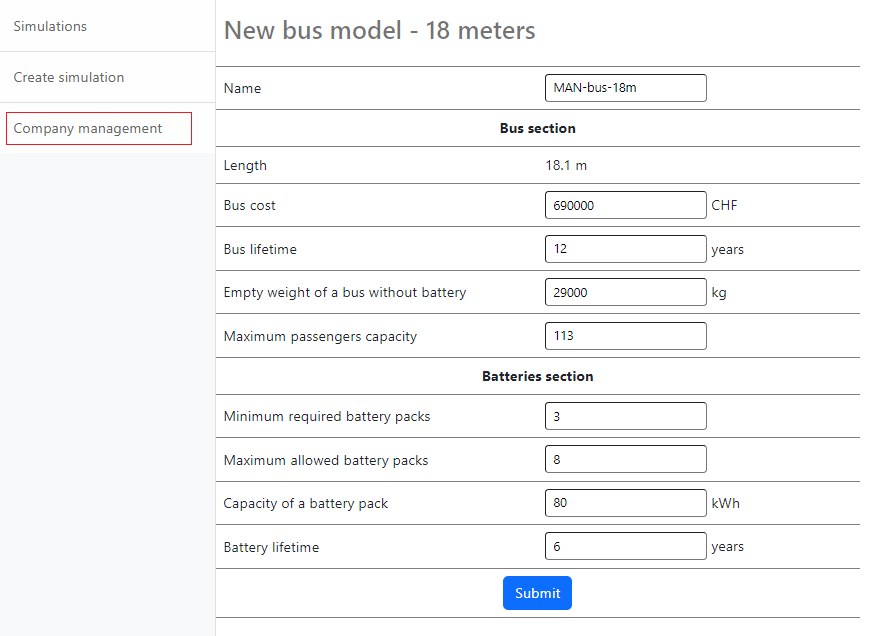
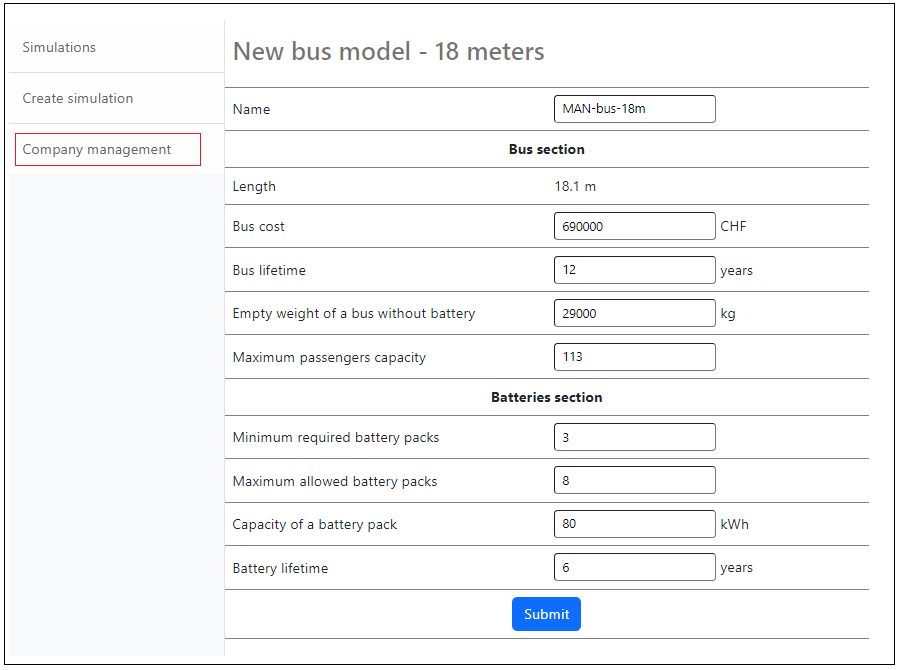
new image for bus models, update readme accordingly

Changed region(s): [[0.0, 0.0896, 0.9807, 0.5975], [0.0, 0.6274, 1.0, 1.0], [0.0, 0.0, 1.0, 0.0896]]

diff --git a/README.md b/README.md
@@ -87,7 +87,7 @@ The user profile encapsulates all the information related to a particular user t
 The company management section is where you can manage your company specific input data. These include the type of buses you wish to simulate, the bus terminals, 
 and the distances between the terminal stations. Specifying these data under company profile makes it easier to reuse the same data for multiple simulations.
 
-As shown in Figure 3, the pre-existing bus models appears in at the top of the company management section as a table. 
+As shown in Figure 4, the pre-existing bus models appears in at the top of the company management section as a table. 
 
 shows a section of the company management section. The left menu shows the different options available under the company management section. You can add 
 a new bus model by clicking “Add new”. You may also edit an existing bus model by clicking on the name of 
@@ -98,15 +98,14 @@ the existing bus model in the table.
 </p>
 <p align="center"><em>Figure 4: Company management - Bus models</em></p>
 
-The information required to describe a bus model accurately is available from the electric bus manufacturers. Some important points to note:
-* The current model only supports evaluating the feasibility of a fully electrified fleet. Therefore, only electric bus models may be inserted,
-* All bus models inserted into the web tool will be stored in a database under the company profile that you create. That means you can reuse the same bus model for a feasibility assessment again using the same login. This is true for all other inputs as well.
+Figure 5 shows the data that is required to set up a new bus model. These data are typically available from the electric bus manufacturers. 
+The created bus models are stored in a database linked to the company profile. Therefore, you can reuse the same bus model for multiple feasibility evaluations using the same login. 
+The data is not shared between user accounts.  
 
-The following two pictures show how to add/edit buses model.
-
-![New Bus](https://github.com/supsi-dacd-isaac/pvxte-web/blob/main/docs/img/new_bus.png)
-
-![Edit Bus](https://github.com/supsi-dacd-isaac/pvxte-web/blob/main/docs/img/edit-bus.png)
+<p align="center">
+  <img src="https://github.com/supsi-dacd-isaac/pvxte-web/blob/main/docs/img/new_bus.png" alt="new bus" width="65%"/>
+</p>
+<p align="center"><em>Figure 5: Create new bus model.</em></p>
 
 ### Terminals and distance matrix
 
@@ -185,6 +184,9 @@ We use a generic energy consumption model, taking into account many important pa
 Hjelkrem et al. modeled each trip as a sequence of many small trip segments, each with a known elevation profile. In reality, the transportation companies do not have such detailed elevation profiles of the roads. Consequently, in our simplified model, we only consider the elevations of the start and end points of the trip for the energy calculation. This approximation and the use of other approximate parameters, such as rolling resistance, average velocity, etc., leads to inaccuracies in the energy consumption estimates. To minimize the impact of these inaccuracies, we introduce a calibration parameter that the user can change based on their current knowledge about the energy intensity (kWH/km) of each bus line.  
 
 First, simulate with the default calibration parameter value of 1.0 and observe the resulting bus energy efficiency (kWh/km). If it approximately matches your previous knowledge, then the energy consumption model already generates a reasonable approximation of the energy consumption of your bus line. Otherwise, either increase or decrease the calibration parameter accordingly. 
+
+## Limitations of the web tool
+* The current model only supports evaluating the feasibility of a fully electrified fleet. Therefore, only electric bus models may be inserted,
 
 ## References
 <a id="1">[1]</a> 
